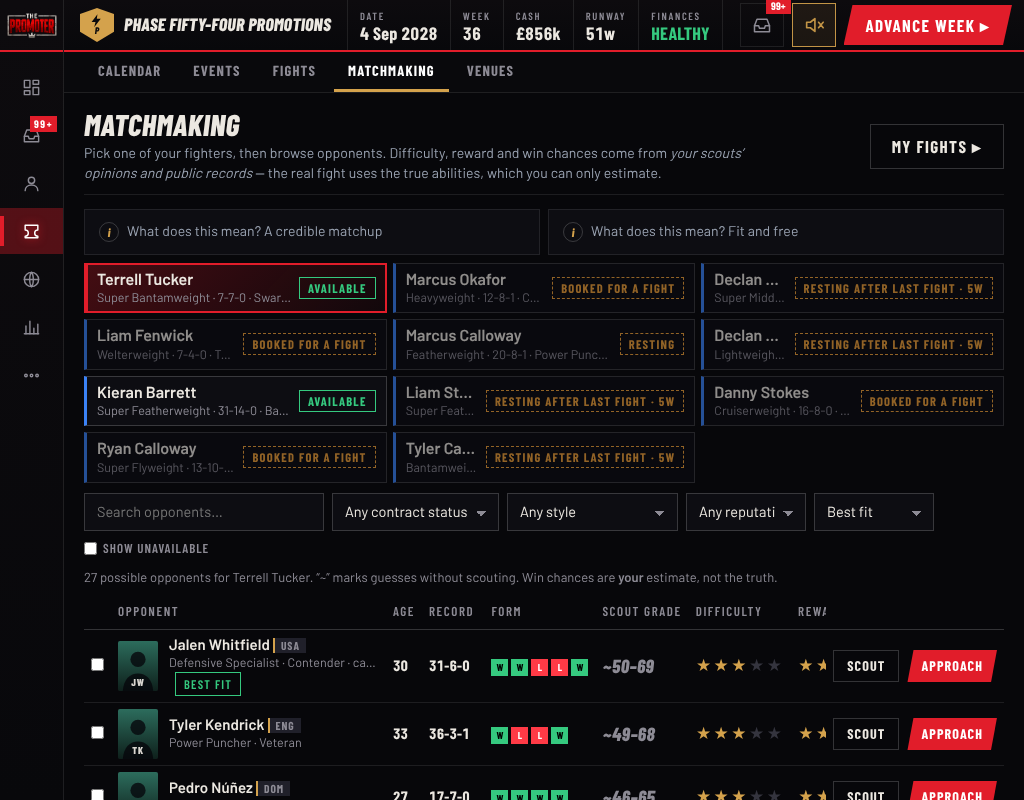
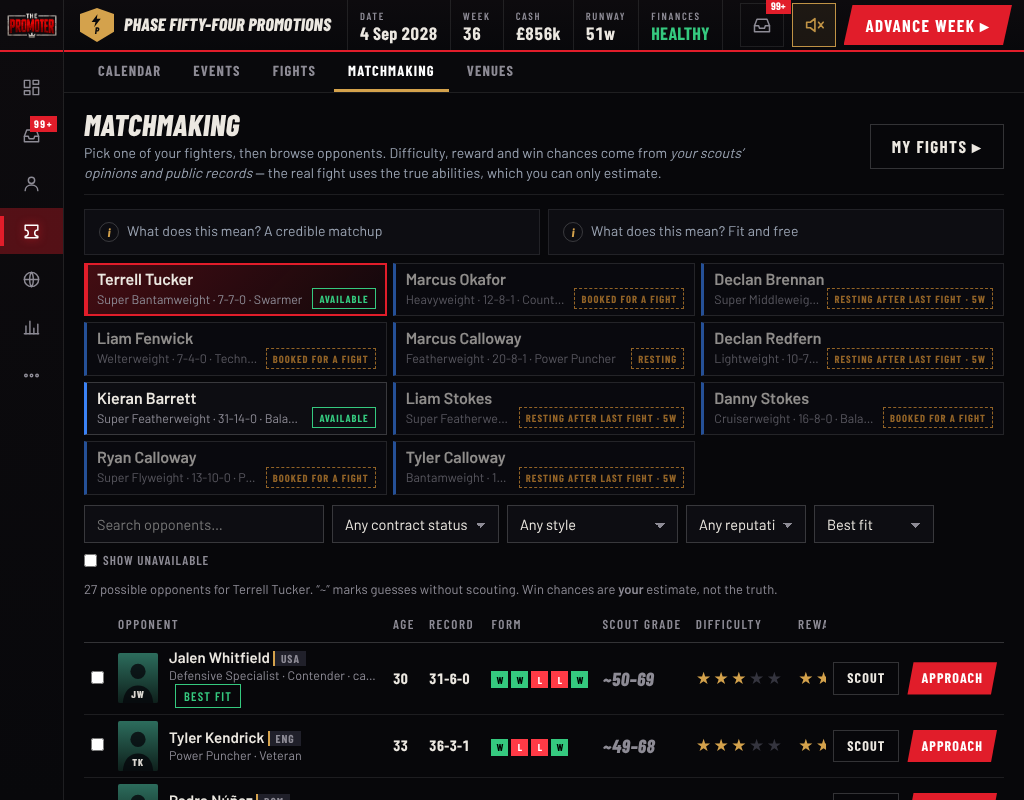
Desktop UX phase 2: 1024 event bar fit, checks and test updates
Claude-Session: https://claude.ai/code/session_01JVWickjBzBGNfmRYQa16tf

diff --git a/src/styles/desktop.css b/src/styles/desktop.css
@@ -248,7 +248,8 @@
   .eb-right .kpis { margin-bottom: 6px; } .eb-right .kpi .v { font-size: 22px !important; }
 }
 @media (min-width: 861px) and (max-width: 1100px) {
-  .eb-bar { margin: -16px -20px 10px; padding: 8px 20px; gap: 12px; flex-wrap: wrap; }
+  .eb-bar { margin: -16px -20px 10px; padding: 8px 20px; gap: 6px 12px; flex-wrap: wrap; overflow: hidden; }
+  .eb-meta { display: none; } .eb-name { font-size: 20px; max-width: 200px; } .eb-fc .num { font-size: 15px; } .eb-actions .btn.primary { padding-left: 14px; padding-right: 14px; }
   .eb-shell { grid-template-columns: minmax(0, 1fr) 320px; column-gap: 16px; }
   .eb-name { max-width: 220px; }
 }
